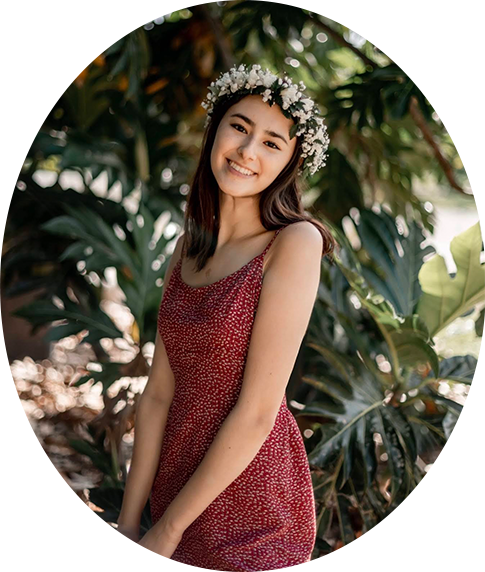
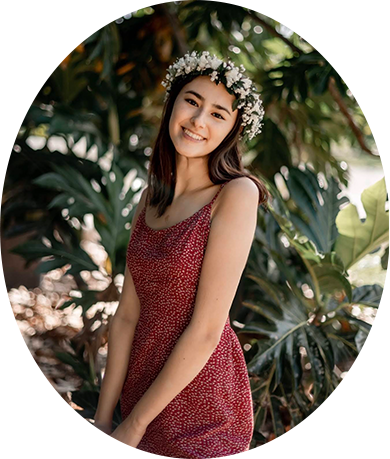
3

diff --git a/project/index.html b/project/index.html
@@ -23,7 +23,7 @@
    
     <div class="parentcontent">
         <div>
-            <img class="content" src="../images/circle3.png" alt="coverpic">
+            <img class="circle3" src="../images/circle3.png" alt="coverpic">
         </div>
         <div class="description">
             <p>I'm a Hawaii-born media enthusiast with a passion for writing and design. Currently enrolled as a Junior at Syracuse University majoring in Public Relations and IT Management, I pride myself on my knowledge of media trends as well as traditional communication tactics. My endeavors at school in and outside the classroom continue to build my foundation for the professional world of public relations and web-design. The work I've produced from my extracurriculars, and academics are demonstrated here in my portfolio.</p>

diff --git a/project/project.css b/project/project.css
@@ -19,12 +19,13 @@ nav a:hover {background-color: #771f}
     float: right;
     padding: 10px
 }
-.content {
+.circle3 {
     justify-content: center;
     display: inline;
     align-items: center;
     flex:1;
-    margin: 30px;
+    margin: 50px;
+    padding-right: 30px;
 
    }
 
